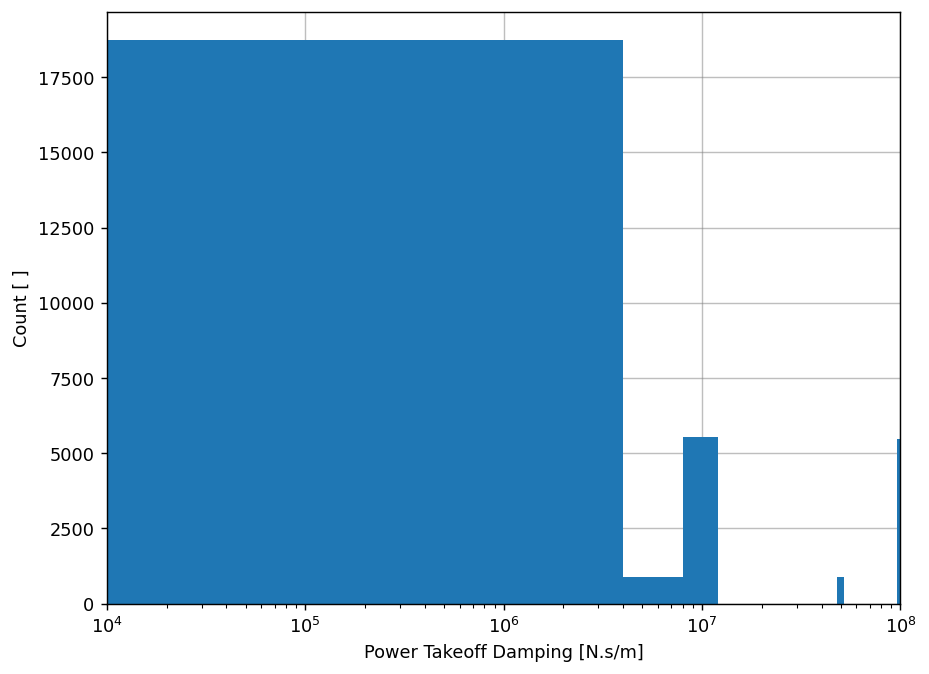
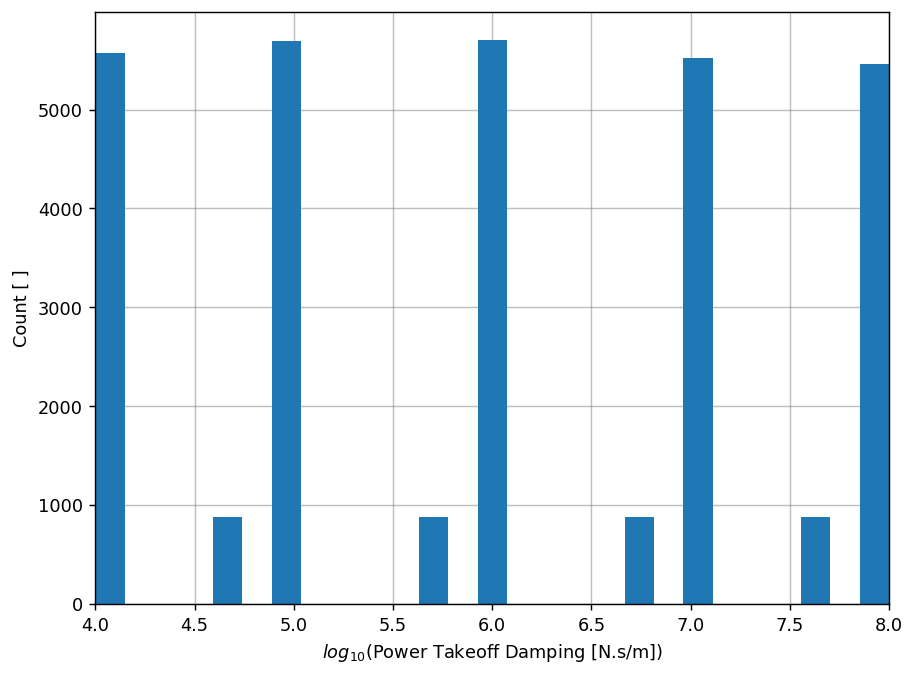
Add files via upload

diff --git a/Python/analyze_gamma_data.py b/Python/analyze_gamma_data.py
@@ -38,6 +38,7 @@
     A script for analyzing gamma data.
 """
 
+import math
 
 import matplotlib.pyplot as plt
 
@@ -50,8 +51,8 @@ if __name__ == "__main__":
     dimensionless_feature_array = np.load("data/dimensionless_feature_array.npy")
     target_regression = np.load("data/target_gamma_regression.npy")
     
-    dimension = input_regression.shape[1]
     size = input_regression.shape[0]
+    dimension = input_regression.shape[1]
     
     
     #   build classification array (sentinel vs non-sentinel)
@@ -124,6 +125,11 @@ if __name__ == "__main__":
     )
     
     
+    #   log10 scale the PTO damping feature (to "linearized" distribution)
+    for i in range(0, size_after):
+        input_regression[i, dimension - 1] = math.log10(input_regression[i, dimension - 1])
+    
+    
     #   print some gamma statistics
     print()
     print("gamma statistics:")
@@ -163,7 +169,7 @@ if __name__ == "__main__":
         "Wave Peak Period [s]",
         "Float Diameter [m]",
         "Power Takeoff Stiffness [N/m]",
-        "Power Takeoff Damping [N.s/m]"
+        "$log_{10}($Power Takeoff Damping [N.s/m]$)$"
     ]
     
     target_name_list = ["gamma [ ]"]
@@ -178,8 +184,6 @@ if __name__ == "__main__":
         )
         plt.xlim(np.min(input_regression[:, i]), np.max(input_regression[:, i]))
         plt.xlabel(feature_name_list[i])
-        if i == dimension - 1:
-            plt.xscale("log")
         plt.ylabel("Count [ ]")
         plt.savefig(
             "../LaTeX/images/mining/histogram_feature_{}_no_sentinel.png".format(i),

diff --git a/Python/evolve_gamma_regressor_hyperparameters.py b/Python/evolve_gamma_regressor_hyperparameters.py
@@ -38,6 +38,7 @@
     A script for evolving hyperparameters for a gamma regressor (MLPRegressor).
 """
 
+import math
 
 import matplotlib.pyplot as plt
 
@@ -303,8 +304,8 @@ if __name__ == "__main__":
     input_regression = np.load("data/input_gamma_regression.npy")
     target_regression = np.load("data/target_gamma_regression.npy")
     
-    dimension = input_regression.shape[1]
     size = input_regression.shape[0]
+    dimension = input_regression.shape[1]
     
     
     #   filter out sentinels
@@ -321,6 +322,11 @@ if __name__ == "__main__":
         "% of the data was retained"
     )
     print()
+    
+    
+    #   log10 scale the PTO damping feature (to get "linearized" distribution)
+    for i in range(0, size_after):
+        input_regression[i, dimension - 1] = math.log10(input_regression[i, dimension - 1])
     
     
     #   seek optimal hyperparameters (by way of differential evolution)
